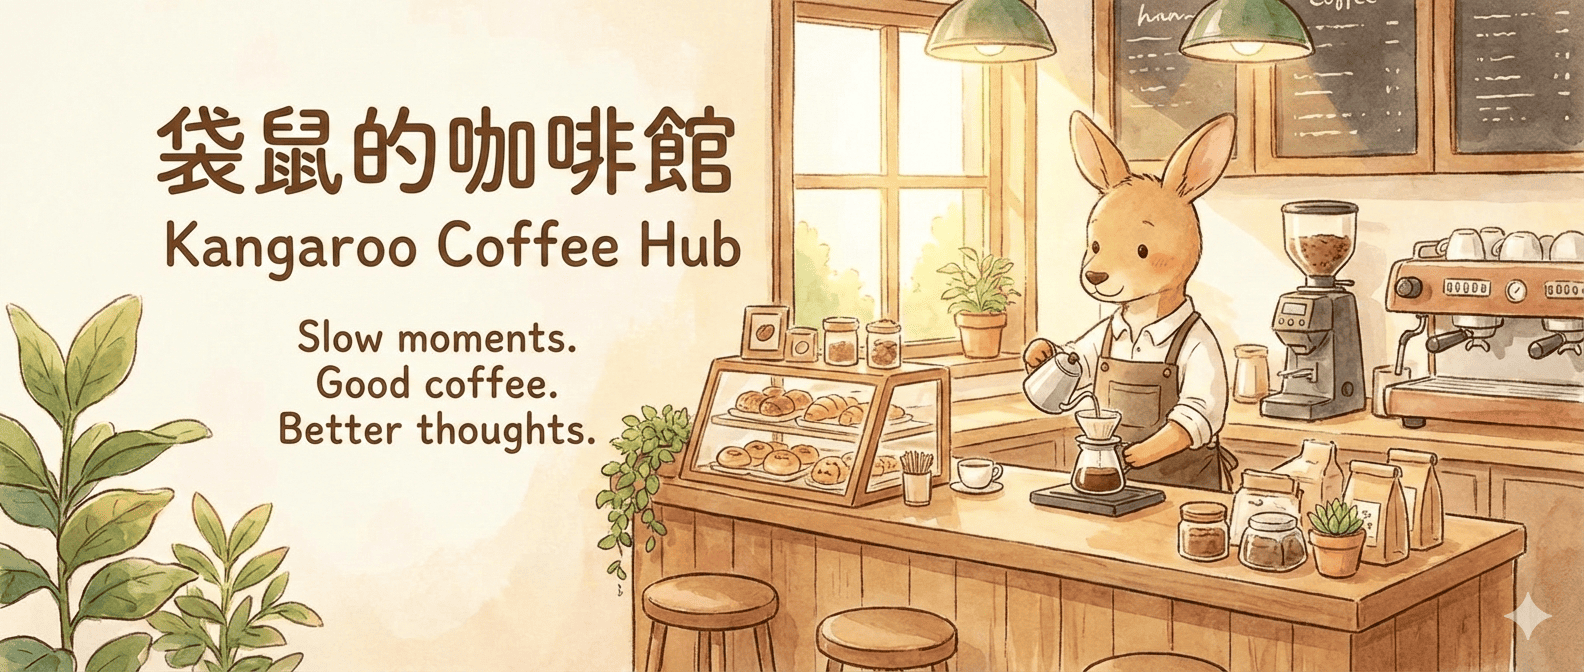
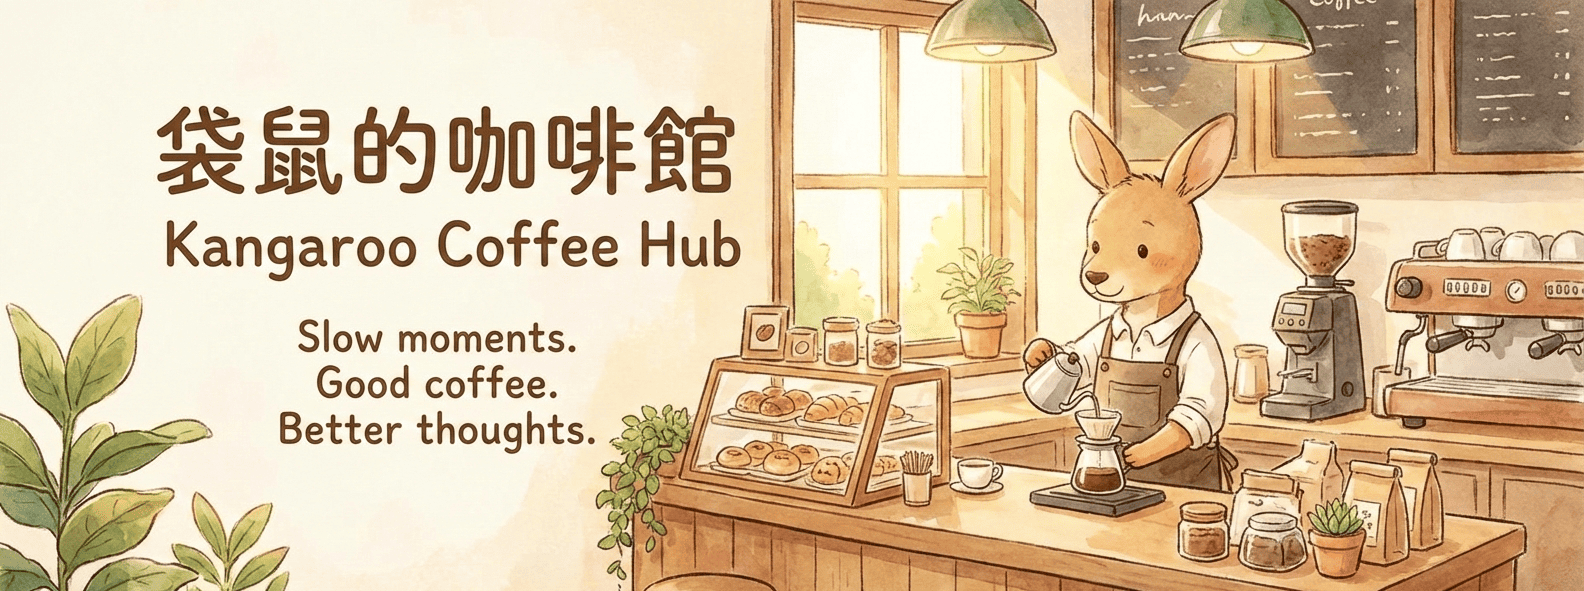
細節(Docs順序、圖片大小)

diff --git a/sidebars.js b/sidebars.js
@@ -33,3 +33,61 @@ const sidebars = {
 };
 
 export default sidebars;
+
+module.exports = {
+  tutorialSidebar: [
+    'intro',  // 首頁
+    
+    // 👇 按照你想要的順序
+    {
+      type: 'category',
+      label: '教育與學習',
+      items: [
+        {
+          type: 'autogenerated',
+          dirName: '教育與學習',
+        },
+      ],
+    },
+    {
+      type: 'category',
+      label: '社會工作與社會議題',
+      items: [
+        {
+          type: 'autogenerated',
+          dirName: '社會工作與社會議題',
+        },
+      ],
+    },
+    {
+      type: 'category',
+      label: '心理學',
+      items: [
+        {
+          type: 'autogenerated',
+          dirName: '心理學',
+        },
+      ],
+    },
+    {
+      type: 'category',
+      label: '資訊與科技',
+      items: [
+        {
+          type: 'autogenerated',
+          dirName: '資訊與科技',
+        },
+      ],
+    },
+    {
+      type: 'category',
+      label: '其他',
+      items: [
+        {
+          type: 'autogenerated',
+          dirName: '其他',
+        },
+      ],
+    },
+  ],
+};

diff --git a/src/pages/index.js b/src/pages/index.js
@@ -9,8 +9,7 @@ export default function About() {
       title="首頁"
       description="袋鼠的咖啡館 - 一個可以慢下來的空間">
         <div style={{
-        width: '100%',
-        height: '400px',
+        width: '100%',  
         overflow: 'hidden',
         marginBottom: 0
       }}>
@@ -19,7 +18,7 @@ export default function About() {
           alt="袋鼠的咖啡館"
           style={{
             width: '100%',
-            height: '125%',
+            height: 'auto',
             objectFit: 'cover',
             objectPosition: 'center'
           }}

diff --git a/docs/社會工作與社會議題/為什麼同一碗牛肉麵，有人視為犒賞，有人卻遙不可及？.md b/docs/社會工作與社會議題/為什麼同一碗牛肉麵，有人視為犒賞，有人卻遙不可及？.md
@@ -1,11 +1,11 @@
 ---
-title: 為什麼同一碗牛肉麵，有人視為犒賞，有人卻遙不可及？
+title: 貧窮不是不努力：從結構因素理解貧窮與社會安全網
 authors: 袋鼠
 description: 為什麼同樣努力工作，有些人仍然陷在貧窮裡？本文從絕對貧窮、相對貧窮到社會排除，整理貧窮的定義、貧窮線計算方式、結構與事件因素，並解析臺灣社會安全網，邀請你重新理解「貧窮不是不努力」。
 tags: [社會工作,貧窮,結構性貧窮,社會安全網,社會救助,社會排除,絕對貧窮,相對貧窮]
 date: 2025-09-25
 ---
-# 為什麼同一碗牛肉麵，有人視為犒賞，有人卻遙不可及？
+# 貧窮不是不努力：從結構因素理解貧窮與社會安全網
 
 ![](/img/blog/Substackarticle22.jpg)
 

diff --git a/docs/教育與學習/你真的知道嗎？在資訊爆炸時代，我們更該學習「不知道」的勇氣.md b/docs/教育與學習/你真的知道嗎？在資訊爆炸時代，我們更該學習「不知道」的勇氣.md
@@ -1,12 +1,12 @@
 ---
-title: 你真的知道嗎？在資訊爆炸時代，我們更該學習「不知道」的勇氣
+title: 在資訊爆炸時代，我們更該學習「不知道」的勇氣
 authors: 袋鼠
 description: 你以為懂得越多就代表會學習嗎？『不知本位學習』提醒我們：未知才是最強大的養分。透過哲學思維與教育實踐案例，本文帶你跳脫知識本位框架，重新發現學習的樂趣與力量。
 tags: [學習方法,教育,知識管理,不知本位,學習科學與科技,曾正宜教授,知識地圖,學習科學]
 date: 2025-09-22
 ---
 
-# 你真的知道嗎？在資訊爆炸時代，我們更該學習「不知道」的勇氣
+# 在資訊爆炸時代，我們更該學習「不知道」的勇氣
 
 你是否也曾有這樣的經驗？
 

diff --git a/docs/教育與學習/孩子的困境，往往是系統的反映.md b/docs/教育與學習/孩子的困境，往往是系統的反映.md
@@ -1,5 +1,5 @@
 ---
-title: 孩子的困境，往往是系統的反映－從偏鄉教育現場，看見多重困境
+title: 孩子的困境，往往是系統的反映
 authors: 袋鼠
 description: 教育的問題從不只是資源，而是我們是否打造出能支持孩子成長與選擇的系統。從偏鄉現場重新理解生涯與公平。
 tags: [TFT,Teach for Taiwan,教育不平等,訪談,生涯,種籽實小,台南七股篤加國小,花蓮三民國小]
@@ -8,7 +8,7 @@ date: 2025-07-25
 
 
 
-# 孩子的困境，往往是系統的反映－從偏鄉教育現場，看見多重困境
+# 孩子的困境，往往是系統的反映
 ![](/img/blog/Substackarticle01.jpg)
 
 可能要趕快記下來，不然時間久了大概會忘記…
